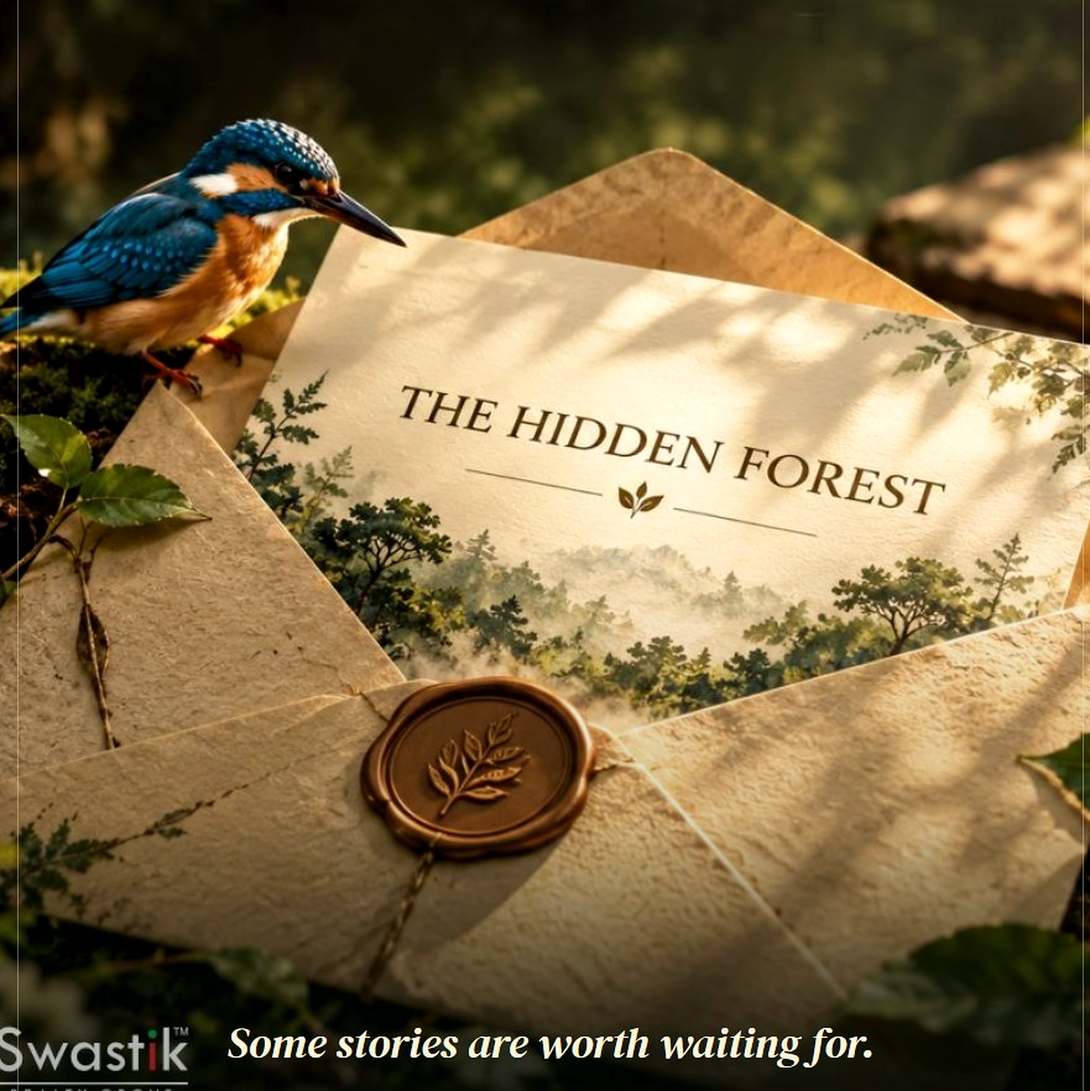
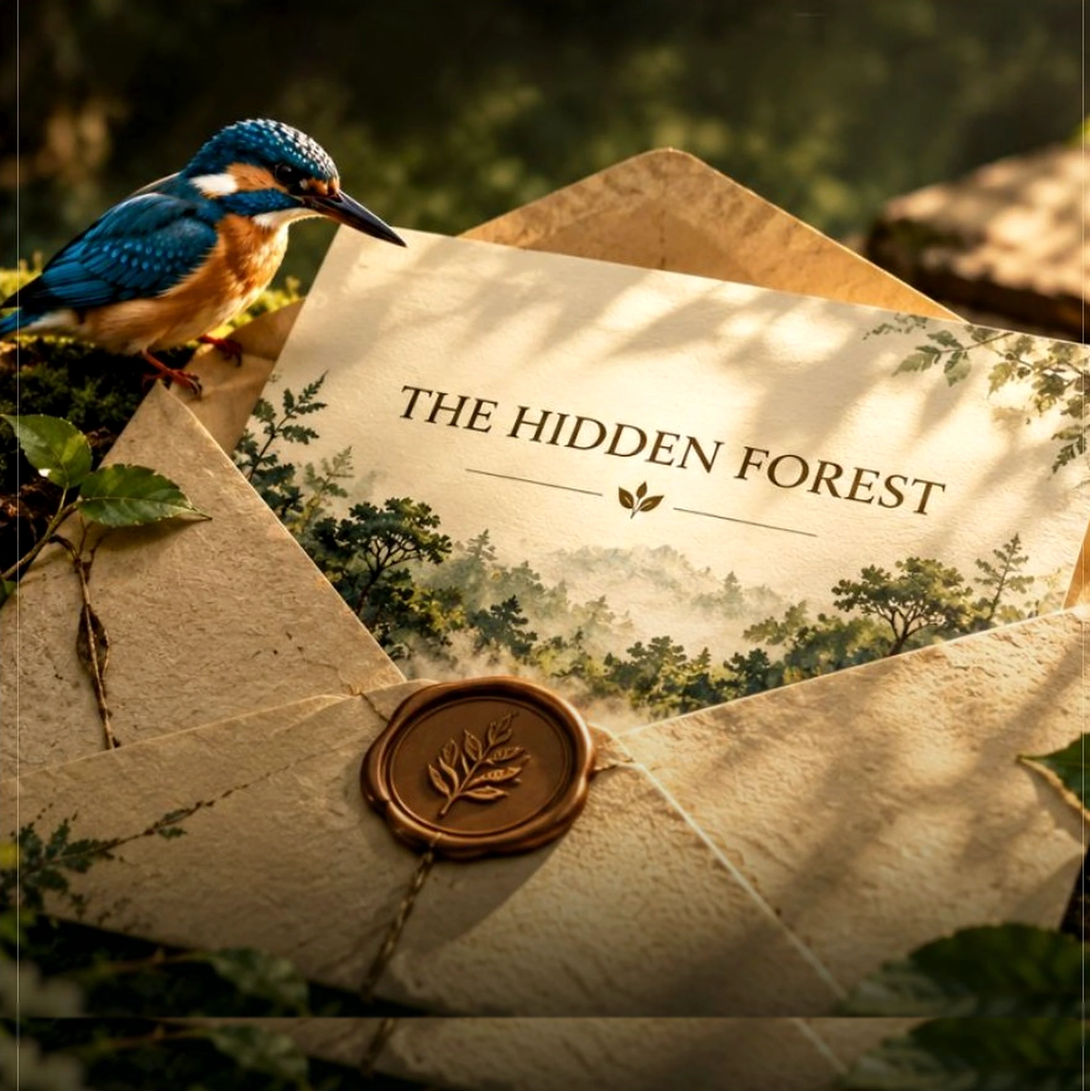
Keep the thank-you screen full height and place the footer below it.

Changed region(s): [[0.0, 0.9297, 0.9308, 1.0], [0.9618, 0.9297, 1.0, 1.0], [0.9308, 0.9607, 0.9618, 0.9917]]

diff --git a/src/pages/HiddenForestThankYou.jsx b/src/pages/HiddenForestThankYou.jsx
@@ -1,6 +1,7 @@
 import { useEffect } from "react";
 import { Link, useLocation } from "react-router-dom";
 import letterImage from "../assets/hidden-forest-letter.webp";
+import DearPuneFooter from "../components/DearPuneFooter";
 import useSeo from "../hooks/useSeo";
 
 const seo = {
@@ -17,17 +18,6 @@ export default function HiddenForestThankYou() {
   const location = useLocation();
   const submitted = location.state?.submitted === true;
   const source = location.state?.source || "dear-pune";
-
-  useEffect(() => {
-    const previousHtml = document.documentElement.style.overflow;
-    const previousBody = document.body.style.overflow;
-    document.documentElement.style.overflow = "hidden";
-    document.body.style.overflow = "hidden";
-    return () => {
-      document.documentElement.style.overflow = previousHtml;
-      document.body.style.overflow = previousBody;
-    };
-  }, []);
 
   useEffect(() => {
     window.dataLayer = window.dataLayer || [];
@@ -58,9 +48,9 @@ export default function HiddenForestThankYou() {
   }, [source, submitted]);
 
   return (
-    <main className="dear-pune fixed inset-x-0 bottom-0 top-[84px] overflow-hidden bg-[#f6efe2] text-[#30291f]">
-      <section className="grid h-full grid-rows-[minmax(0,42%)_minmax(0,1fr)] min-[900px]:grid-cols-[minmax(0,1fr)_minmax(300px,0.92fr)] min-[900px]:grid-rows-1">
-        <div className="order-2 flex min-h-0 flex-col justify-center overflow-hidden px-5 py-[2vh] sm:px-10 min-[900px]:order-1 min-[900px]:px-[4.5vw]">
+    <main className="dear-pune bg-[#f6efe2] pt-16 text-[#30291f] md:pt-[84px]">
+      <section className="grid min-h-[calc(100svh-4rem)] grid-rows-[minmax(280px,46vh)_auto] md:h-[calc(100svh-84px)] md:min-h-[560px] md:grid-cols-[minmax(340px,0.9fr)_minmax(0,1.1fr)] md:grid-rows-1">
+        <div className="order-2 flex flex-col justify-center px-5 py-8 sm:px-10 md:order-1 md:px-[4.5vw] md:py-10">
           <p className="ui flex items-center gap-3 text-[10px] font-bold uppercase tracking-[0.28em] text-[#86704f]">
             <span className="h-px w-8 bg-[#a89065]" />
             The next letter
@@ -96,14 +86,18 @@ export default function HiddenForestThankYou() {
           </div>
         </div>
 
-        <div className="order-1 min-h-0 bg-[#1c2b20] min-[900px]:order-2">
+        <div className="relative order-1 min-h-[280px] md:order-2 md:min-h-0">
           <img
             src={letterImage}
-            alt="The Hidden Forest letter, sealed in the forest, with a kingfisher beside it"
-            className="h-full w-full object-contain object-center"
+            alt="A sealed letter from The Hidden Forest, with a kingfisher beside it"
+            className="absolute inset-0 h-full w-full object-cover object-center"
           />
+          <p className="poster-serif absolute inset-x-0 bottom-0 bg-gradient-to-t from-[#102018]/75 to-transparent px-6 pb-6 pt-16 text-center text-[clamp(20px,2vw,32px)] italic leading-snug text-[#f7f1e4] sm:pb-8">
+            Some stories are worth waiting for.
+          </p>
         </div>
       </section>
+      <DearPuneFooter />
     </main>
   );
 }

diff --git a/src/lib/submitLead.js b/src/lib/submitLead.js
@@ -2,6 +2,21 @@ const SHEET_URL = import.meta.env.VITE_GOOGLE_SHEET_URL;
 const NOTIFY_EMAIL = "swastikrealtygroup0711@gmail.com";
 
 export async function submitLead(fields) {
+  // Fire Google Sheet webhook in parallel if configured
+  const sheetPromise = (async () => {
+    if (!SHEET_URL) return;
+    try {
+      const body = new URLSearchParams({
+        ...fields,
+        page: window.location.href,
+        submittedAt: new Date().toISOString(),
+      });
+      await fetch(SHEET_URL, { method: "POST", mode: "no-cors", body });
+    } catch {
+      // Ignore sheet errors so form completion is not blocked
+    }
+  })();
+
   const payload = {
     name: fields.name || "",
     mobile: fields.mobile || "",
@@ -16,7 +31,7 @@ export async function submitLead(fields) {
 
   if (fields.email) payload._replyto = fields.email;
 
-  const response = await fetch(
+  const emailPromise = fetch(
     `https://formsubmit.co/ajax/${encodeURIComponent(NOTIFY_EMAIL)}`,
     {
       method: "POST",
@@ -27,6 +42,8 @@ export async function submitLead(fields) {
       body: JSON.stringify(payload),
     },
   );
+
+  const [response] = await Promise.all([emailPromise, sheetPromise]);
 
   let data = {};
   try {
@@ -44,18 +61,5 @@ export async function submitLead(fields) {
       );
     }
     throw new Error(detail || "Could not send your details. Please try again.");
-  }
-
-  if (SHEET_URL) {
-    const body = new URLSearchParams({
-      ...fields,
-      page: window.location.href,
-      submittedAt: new Date().toISOString(),
-    });
-    try {
-      await fetch(SHEET_URL, { method: "POST", mode: "no-cors", body });
-    } catch {
-      // The enquiry email has already been sent.
-    }
   }
 }
